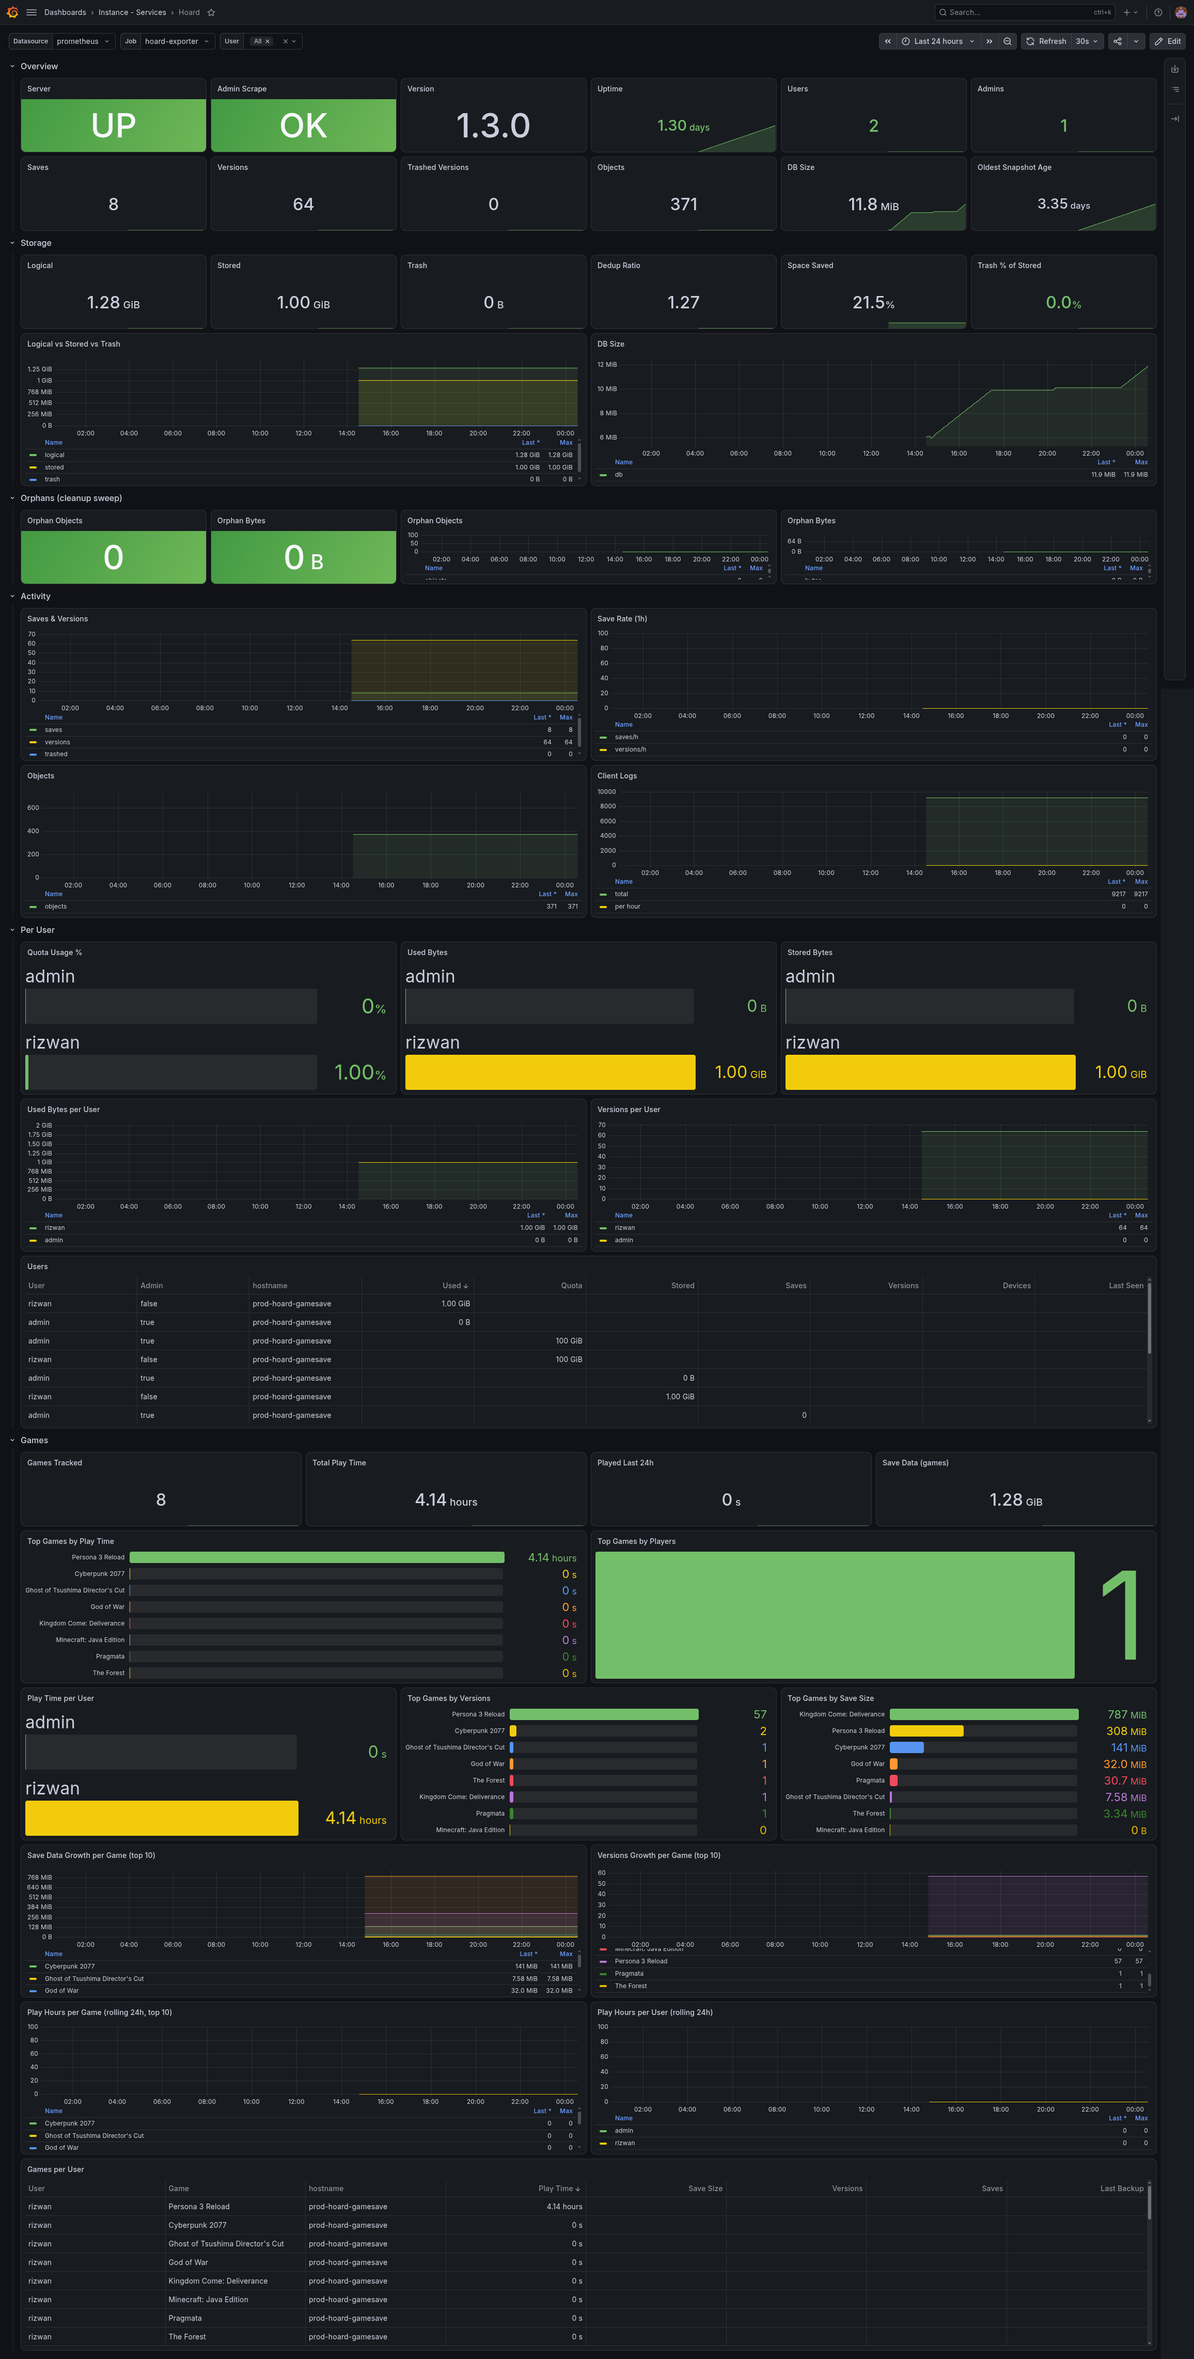
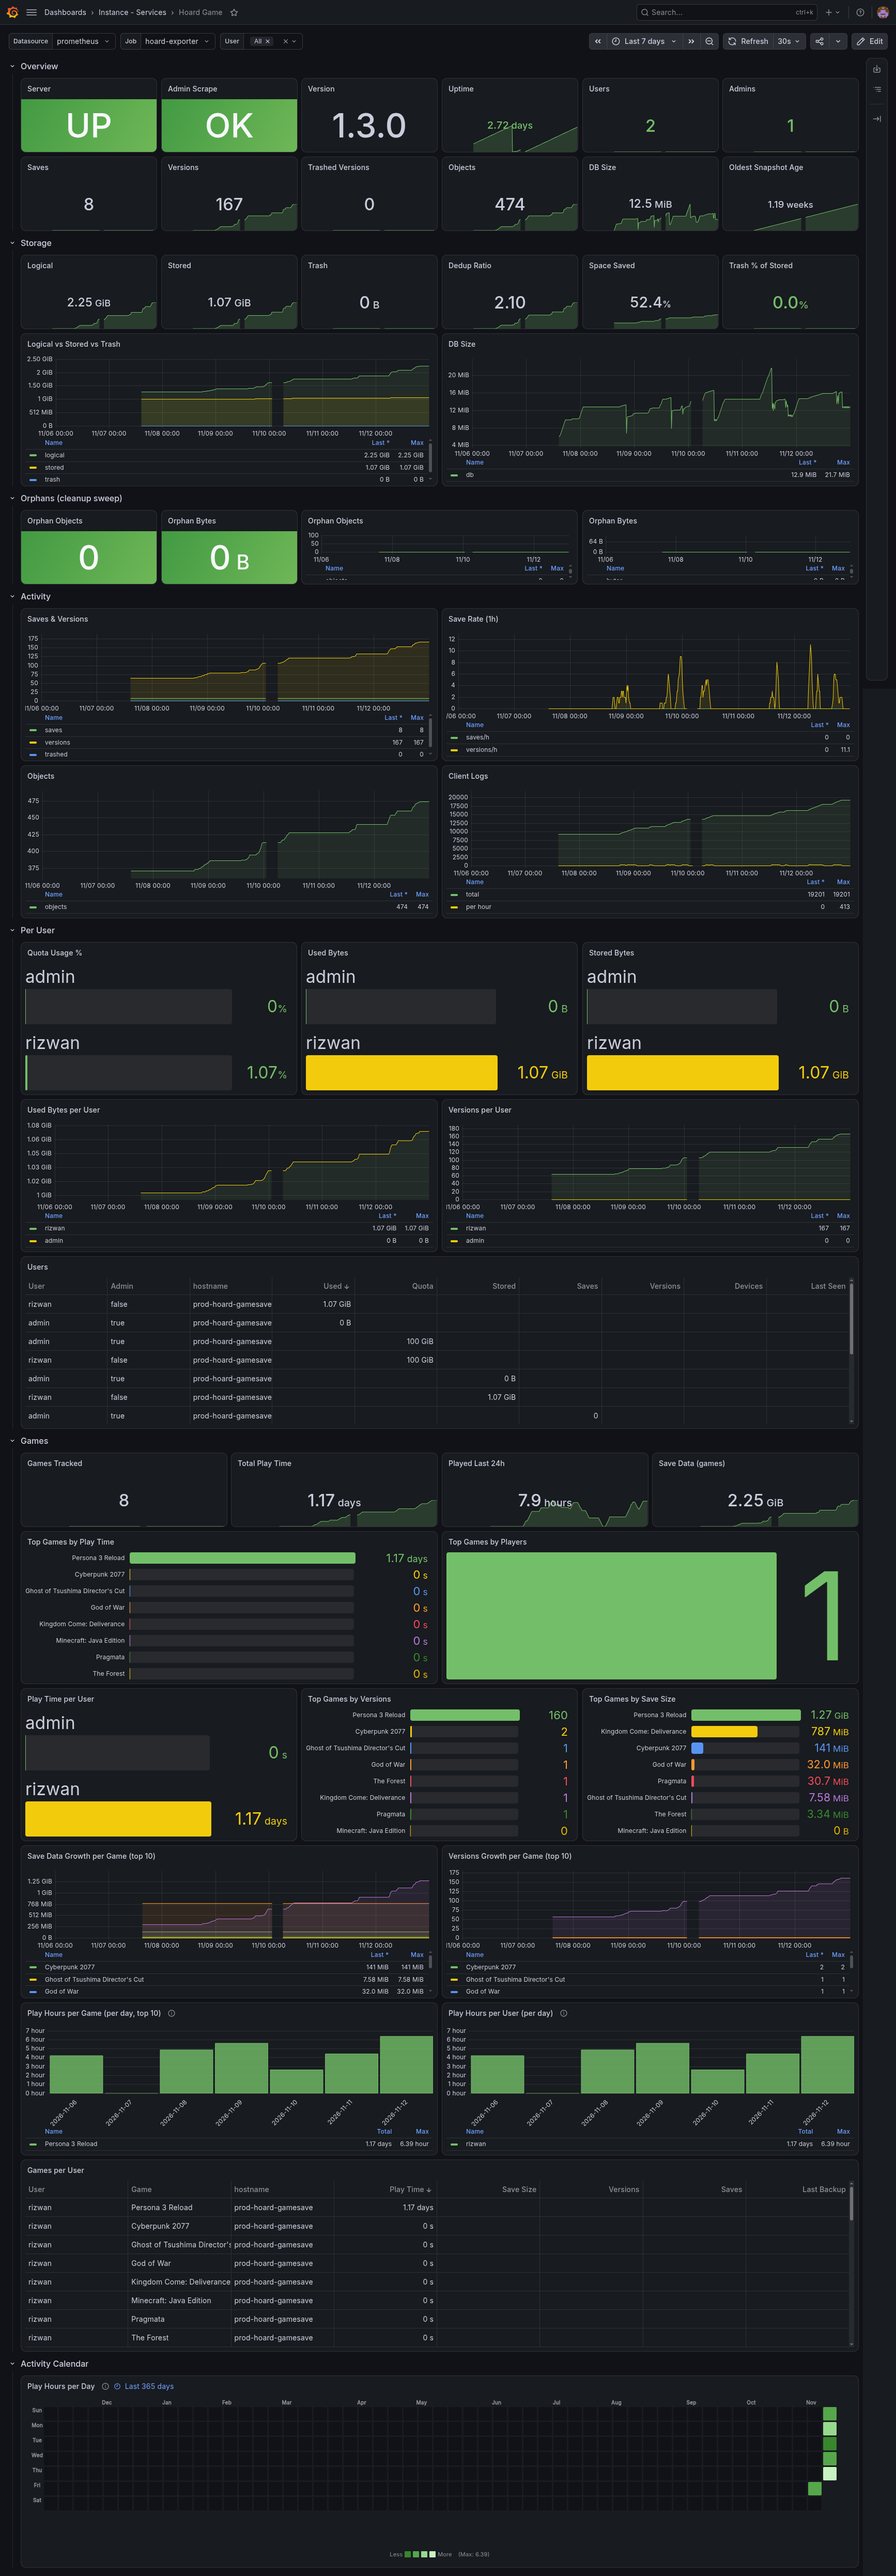
docs: update README with per-user playtime metrics, new env vars and Grafana plugin setup

diff --git a/README.md b/README.md
@@ -1,78 +1,273 @@
-# Hoard Exporter
+# hoard-exporter
 
-Prometheus exporter for [Hoard](https://github.com/rleeon/hoard) — the open-source, versioned game save backup and sync system. This exporter polls your `hoard-server` instance and exposes its health and usage data as Prometheus metrics, so you can monitor your self-hosted Hoard deployment (storage usage, orphaned objects, per-user quotas, uptime, etc.) in Grafana or any Prometheus-compatible stack.
+A Prometheus exporter for a self-hosted [Hoard](https://github.com) server. It scrapes Hoard's own JSON endpoints and re-exposes the numbers on `/metrics`, together with a ready-to-use Grafana dashboard covering storage, users, games and **play time**.
 
-![Grafana Dashboard](images/grafana-dashboard.png)
+- Pure Go standard library, no external dependencies
+- Results are cached, so Prometheus scrapes never hit Hoard's database directly
+- Degrades gracefully: if one request fails, the exporter logs it and keeps serving the last good data
+
+> **Note:** `/v1/admin/overview` is an internal, undocumented endpoint (reverse-engineered from the hoard-server source). A new Hoard release may change its shape without notice.
+
+## Features
+
+- Server health, version and uptime
+- Storage stats: logical vs. stored (deduplicated) bytes, trash, orphan objects, DB size
+- Per-user quota, saves, versions, devices and last-seen
+- **Per-user, per-game metrics**: play time, saves, versions, bytes, last backup
+- Grafana dashboard with play-time panels:
+  - **Play Hours per Day** (GitHub-style calendar heatmap)
+  - **Play Hours per Game** (per day, top 10)
+  - **Play Hours per User** (per day)
+  - and the existing storage / quota / health panels
+
+## Requirements
+
+- A running Hoard server and an **admin** device token
+- Prometheus or VictoriaMetrics
+- Grafana 10+ with the GitHub-style heatmap panel plugin (see [Grafana Setup](#grafana-setup))
+- Docker + Docker Compose (or Go, for a manual build)
 
 ## Setup
 
-1. Create an admin device token through the Hoard web dashboard (`Users` -> create a new token under an admin account), or via the shell:
+### 1. Create an admin device token
 
-   ```
-   hoard-admin token create <admin-user> --device exporter
-   ```
-2. Create a `.env` file alongside your Compose file:
+Through the Hoard web dashboard (`Users` -> create a new token under an admin account), or via the shell:
 
-   ```
-   HOARD_EXPORTER_TOKEN=hoard_v1_xxxxxxxx
-   ```
-3. Add the contents of `docker-compose.snippet.yml` to your existing Hoard Compose stack. Adjust the `server` service name if yours is different.
-4. Start the exporter:
+```bash
+hoard-admin token create <admin-user> --device exporter
+```
 
-   ```
-   docker compose up -d --build hoard-exporter
-   ```
-5. Add the following scrape configuration to your Prometheus/VictoriaMetrics configuration:
+### 2. Create a `.env` file
 
-   ```yaml
-   - job_name: hoard
-     static_configs:
-       - targets: ["hoard-exporter:9477"]   # or IP:9477 if running on a different host
-   ```
+Next to your Compose file:
+
+```env
+HOARD_TOKEN=hoard_v1_xxxxxxxx
+```
+
+### 3. Add the exporter to your Compose stack
+
+```yaml
+services:
+  hoard-exporter:
+    build: ./hoard-exporter
+    container_name: hoard-exporter
+    restart: unless-stopped
+    environment:
+      HOARD_URL: http://server:12421          # adjust to your hoard-server service name
+      HOARD_TOKEN: ${HOARD_TOKEN}
+      # Per-user game & play time metrics, pick ONE of the two options below:
+      HOARD_MINT_USER_TOKENS: "true"          # option A: auto-mint a token per user
+      # HOARD_USER_TOKENS: "alice=hoard_v1_aaa,bob=hoard_v1_bbb"   # option B: explicit tokens
+    volumes:
+      - hoard-exporter-data:/data             # persists minted tokens across restarts
+    ports:
+      - "9477:9477"
+
+volumes:
+  hoard-exporter-data:
+```
+
+Adjust the service name, network and ports to match your existing Hoard stack.
+
+### 4. Start the exporter
+
+```bash
+docker compose up -d --build hoard-exporter
+```
+
+Check that it works:
+
+```bash
+curl http://localhost:9477/metrics | grep hoard_user_game_playtime_seconds
+```
+
+### 5. Add a scrape job
+
+In your Prometheus / VictoriaMetrics config:
+
+```yaml
+- job_name: hoard
+  static_configs:
+    - targets: ["hoard-exporter:9477"]   # or IP:9477 if running on a different host
+```
+
+## Per-user data: how the play time metrics work
+
+`/v1/admin/overview` only returns account-level totals. Games and play time are only available through each user's **own** endpoints (`/v1/me/overview` and `/v1/playtime`), which are scoped to the bearer token. So to get per-game and play-time metrics, the exporter needs a token for every user. There are two ways to provide one:
+
+| Method | How it works |
+|--------|--------------|
+| **Explicit tokens** (`HOARD_USER_TOKENS`) | You supply `username=token` pairs. Nothing is created on the server. |
+| **Auto-mint** (`HOARD_MINT_USER_TOKENS=true`) | The exporter uses the admin token to create a device named `hoard-exporter` for each user via `POST /v1/admin/tokens`, and saves the tokens in `HOARD_STATE_FILE`. If a minted token is later revoked (401/403), it is dropped and a fresh one is minted on the next poll. |
+
+An explicit entry in `HOARD_USER_TOKENS` always wins over auto-mint for that user. Users with no token available are skipped silently (no metrics emitted for them).
+
+If **neither** option is configured, the exporter still works, but only the server-level and per-user storage metrics are exposed; all `hoard_user_game_*` and `hoard_user_playtime_seconds` metrics are absent, and the play-time panels will be empty.
+
+> **Security:** minted tokens are stored in plain text in the state file (permissions `0600`). Keep the `/data` volume private.
 
 ## Configuration (Environment Variables)
 
-| Variable          | Required | Default | Description                                                                                                                                                   |
-|-------------------|----------|---------|-----------------------------------------------------------------------------------------------------------------------------------------------------------|
-| `HOARD_URL`       | Yes      | -       | Base URL of hoard-server, e.g. `http://server:12421`                                                                                                        |
-| `HOARD_TOKEN`     | Yes      | -       | Admin device token (`hoard_v1_...`)                                                                                                                         |
-| `LISTEN_ADDR`     | No       | `:9477` | Address the exporter listens on                                                                                                                             |
-| `SCRAPE_INTERVAL` | No       | `15s`   | Polling interval for hoard-server (not the Prometheus scrape interval — the exporter caches results to avoid hitting the database on every Prometheus scrape) |
-| `HOARD_TIMEOUT`   | No       | `10s`   | Timeout for each request to hoard-server                                                                                                                    |
+| Variable                 | Required | Default                              | Description |
+|--------------------------|----------|--------------------------------------|-------------|
+| `HOARD_URL`              | Yes      | -                                    | Base URL of hoard-server, e.g. `http://server:12421` |
+| `HOARD_TOKEN`            | Yes      | -                                    | Admin device token (`hoard_v1_...`) |
+| `LISTEN_ADDR`            | No       | `:9477`                              | Address the exporter listens on |
+| `SCRAPE_INTERVAL`        | No       | `15s`                                | Polling interval for hoard-server (not the Prometheus scrape interval; the exporter caches results to avoid hitting the database on every Prometheus scrape) |
+| `HOARD_TIMEOUT`          | No       | `10s`                                | Timeout for each request to hoard-server |
+| `HOARD_USER_TOKENS`      | No       | -                                    | Comma-separated `username=token` pairs, e.g. `alice=hoard_v1_aaa,bob=hoard_v1_bbb` |
+| `HOARD_MINT_USER_TOKENS` | No       | `false`                              | Set to `true` to auto-mint a device token for every user through the admin API |
+| `HOARD_STATE_FILE`       | No       | `/data/hoard-exporter-tokens.json`   | Where minted tokens are persisted. Mount `/data` as a volume, otherwise a new token per user is minted on every container recreate |
 
 ## Exposed Metrics
 
-### From `/v1/health` (always available, public, stable)
+### Exporter / server health
+
+From `/v1/health` (always available, public, stable):
 
 - `hoard_up` — 1/0
-- `hoard_build_info{version}` — Always 1, with the version exposed as a label
+- `hoard_build_info{version}` — always 1, with the version as a label
 - `hoard_uptime_seconds`
+- `hoard_last_scrape_timestamp_seconds` — time of the most recent scrape attempt, successful or not
 
-### From `/v1/admin/overview` (requires an admin token, **internal/unstable**)
+### Server totals
+
+From `/v1/admin/overview` (requires an admin token, **internal/unstable**):
 
 - `hoard_scrape_success` — 1/0, indicates whether the metrics below are valid
 - `hoard_users_total`, `hoard_admins_total`
 - `hoard_saves_total`, `hoard_versions_total`, `hoard_versions_trashed_total`
 - `hoard_logical_bytes`, `hoard_stored_bytes`, `hoard_trash_bytes`
-- `hoard_orphan_objects_total`, `hoard_orphan_bytes` — **Worth alerting on**: if these values keep increasing, the hoard-server cleanup sweep may not be working properly
-- `hoard_objects_total`, `hoard_db_bytes`, `hoard_client_logs_total`
+- `hoard_orphan_objects_total`, `hoard_orphan_bytes` — **worth alerting on**: if these keep increasing, the hoard-server cleanup sweep may not be working properly
+- `hoard_objects_total`, `hoard_client_logs_total`
+- `hoard_db_bytes` — SQLite file + WAL size (omitted on non-SQLite backends)
 - `hoard_oldest_snapshot_timestamp_seconds`
-- Per-user metrics, with `{username, is_admin}` labels:
-  - `hoard_user_used_bytes`
-  - `hoard_user_quota_bytes`
-  - `hoard_user_stored_bytes`
-  - `hoard_user_saves_total`
-  - `hoard_user_versions_total`
-  - `hoard_user_devices_total`
-  - `hoard_user_last_seen_timestamp_seconds`
 
-Missing timestamps (`null` in JSON, e.g. for users who have never logged in) are represented as `-1` instead of `0`, so they cannot be confused with a real Unix epoch timestamp (January 1, 1970).
+### Per user
+
+Labels: `{username, is_admin}`
+
+- `hoard_user_used_bytes`
+- `hoard_user_quota_bytes`
+- `hoard_user_stored_bytes`
+- `hoard_user_saves_total`
+- `hoard_user_versions_total`
+- `hoard_user_devices_total`
+- `hoard_user_last_seen_timestamp_seconds`
+
+### Per user: games and play time
+
+Requires per-user tokens (see [above](#per-user-data-how-the-play-time-metrics-work)). Source: `/v1/me/overview` and `/v1/playtime`.
+
+Labels: `{username}`
+
+- `hoard_user_game_scrape_success` — 1 if this user's data was read on the last scrape
+- `hoard_user_playtime_seconds` — all-time play time, **including** time not attributed to any game
+- `hoard_user_games_total` — games with a save or play time
+
+Labels: `{username, game, game_name}`
+
+- `hoard_user_game_playtime_seconds` — all-time play time in this game
+- `hoard_user_game_saves`
+- `hoard_user_game_versions`
+- `hoard_user_game_bytes` — logical (pre-dedup) bytes
+- `hoard_user_game_last_backup_timestamp_seconds`
+
+Missing timestamps (`null` in JSON, e.g. users who never logged in, games never backed up) are exported as `-1` instead of `0`, so they cannot be confused with a real Unix epoch timestamp (January 1, 1970).
+
+All play-time metrics are **all-time totals**. Daily/hourly figures in Grafana are derived with PromQL (`increase`, `delta`), and rankings such as top 10 are done with `topk`. The exporter does not compute them.
+
+## Grafana Setup
+
+### 1. Install the required plugin
+
+The **Play Hours per Day** panel uses a GitHub-style calendar heatmap plugin that is not bundled with Grafana.
+
+Plugin ID: `<PLUGIN_ID>`
+
+**Docker Compose** (recommended): add it to your Grafana service and recreate the container:
+
+```yaml
+services:
+  grafana:
+    image: grafana/grafana:latest
+    environment:
+      # Grafana 12+
+      GF_PLUGINS_PREINSTALL: <PLUGIN_ID>
+      # Older versions: GF_INSTALL_PLUGINS: <PLUGIN_ID>
+    volumes:
+      - grafana-data:/var/lib/grafana
+```
+
+```bash
+docker compose up -d --force-recreate grafana
+```
+
+**Existing install / CLI:**
+
+```bash
+grafana-cli plugins install <PLUGIN_ID>
+sudo systemctl restart grafana-server
+```
+
+If the plugin is unsigned, also allow it explicitly:
+
+```yaml
+GF_PLUGINS_ALLOW_LOADING_UNSIGNED_PLUGINS: <PLUGIN_ID>
+```
+
+Verify under **Administration -> Plugins and data -> Plugins** that it shows up as installed.
+
+### 2. Add the data source
+
+Add Prometheus (or VictoriaMetrics, using the Prometheus data source type) pointing at wherever the `hoard` job is scraped.
+
+### 3. Import the dashboard
+
+1. **Dashboards -> New -> Import**
+2. Upload `grafana/hoard-dashboard.json`
+3. Pick your Prometheus data source and click **Import**
+
+### Play-time panels
+
+| Panel | Visualization | Idea |
+|-------|---------------|------|
+| **Play Hours per Day** | GitHub-style heatmap (plugin) | Total hours played per calendar day across all users |
+| **Play Hours per Game** | Stacked bars / time series | Hours per day for the top 10 games |
+| **Play Hours per User** | Stacked bars / time series | Hours per day for each user |
+
+Example PromQL (the dashboard's actual queries may differ slightly):
+
+```promql
+# Play Hours per Day (all users)
+sum(increase(hoard_user_playtime_seconds[1d])) / 3600
+
+# Play Hours per Game (per day, top 10)
+topk(10, sum by (game_name) (increase(hoard_user_game_playtime_seconds[1d]))) / 3600
+
+# Play Hours per User (per day)
+sum by (username) (increase(hoard_user_playtime_seconds[1d])) / 3600
+```
+
+Tips:
+
+- Set the panel **Min interval / Step** to `1d` so each point is one day.
+- Because `hoard_user_playtime_seconds` includes time not attributed to a game, the per-user total can be higher than the sum of per-game values.
+- Play-time history starts from the moment the exporter first scraped it. Older days will be empty, and the heatmap needs enough Prometheus **retention** to cover the range you display (e.g. 1 year of heatmap = at least 1 year of retention).
+- Newly added games or users can show an inflated first day: the first sample is the full all-time total, not a delta.
 
 ## Example PromQL Alerts
 
-```
+```promql
 # Server down
 up{job="hoard"} == 0 or hoard_up == 0
+
+# Exporter can reach Hoard but the admin endpoint fails
+hoard_up == 1 and hoard_scrape_success == 0
+
+# Per-user play-time scrape failing (bad / revoked token)
+hoard_user_game_scrape_success == 0
 
 # Possible cleanup sweep failure
 increase(hoard_orphan_objects_total[1h]) > 0 and hoard_orphan_objects_total > 100
@@ -82,11 +277,34 @@ hoard_user_quota_bytes > 0
   and (hoard_user_used_bytes / hoard_user_quota_bytes) > 0.9
 ```
 
+## Troubleshooting
+
+| Symptom | Likely cause |
+|---------|--------------|
+| `hoard_scrape_success 0` | Token is not an admin token, or the server is too old / has changed `/v1/admin/overview`. Check the exporter logs. |
+| No `hoard_user_game_*` metrics at all | Neither `HOARD_USER_TOKENS` nor `HOARD_MINT_USER_TOKENS=true` is set. |
+| `hoard_user_game_scrape_success 0` for one user | That user's token is invalid or revoked. Minted tokens are replaced automatically; explicit tokens must be fixed manually. |
+| A new token is minted for every user after each restart | `/data` is not a persistent volume, so `HOARD_STATE_FILE` is lost. |
+| Heatmap panel shows "plugin not found" | The plugin is not installed, Grafana was not restarted, or the plugin is unsigned and not allowed. |
+| Play-time panels show "No data" | Time range is longer than data/retention, step is not `1d`, or per-user tokens are not configured. |
+
 ## Development / Manual Build
 
-```
+```bash
 go build -o hoard-exporter .
 HOARD_URL=http://IP:12421 HOARD_TOKEN=hoard_v1_... ./hoard-exporter
 ```
 
+With per-user play-time metrics:
+
+```bash
+HOARD_URL=http://IP:12421 \
+HOARD_TOKEN=hoard_v1_... \
+HOARD_MINT_USER_TOKENS=true \
+HOARD_STATE_FILE=./hoard-exporter-tokens.json \
+./hoard-exporter
+```
+
 There are no external dependencies (pure Go standard library), so a simple `go build` is all you need. No `go mod tidy` or internet access to download packages is required.
+
+Endpoints: `/metrics` (Prometheus), `/healthz` (the exporter's own liveness, not hoard-server's).
